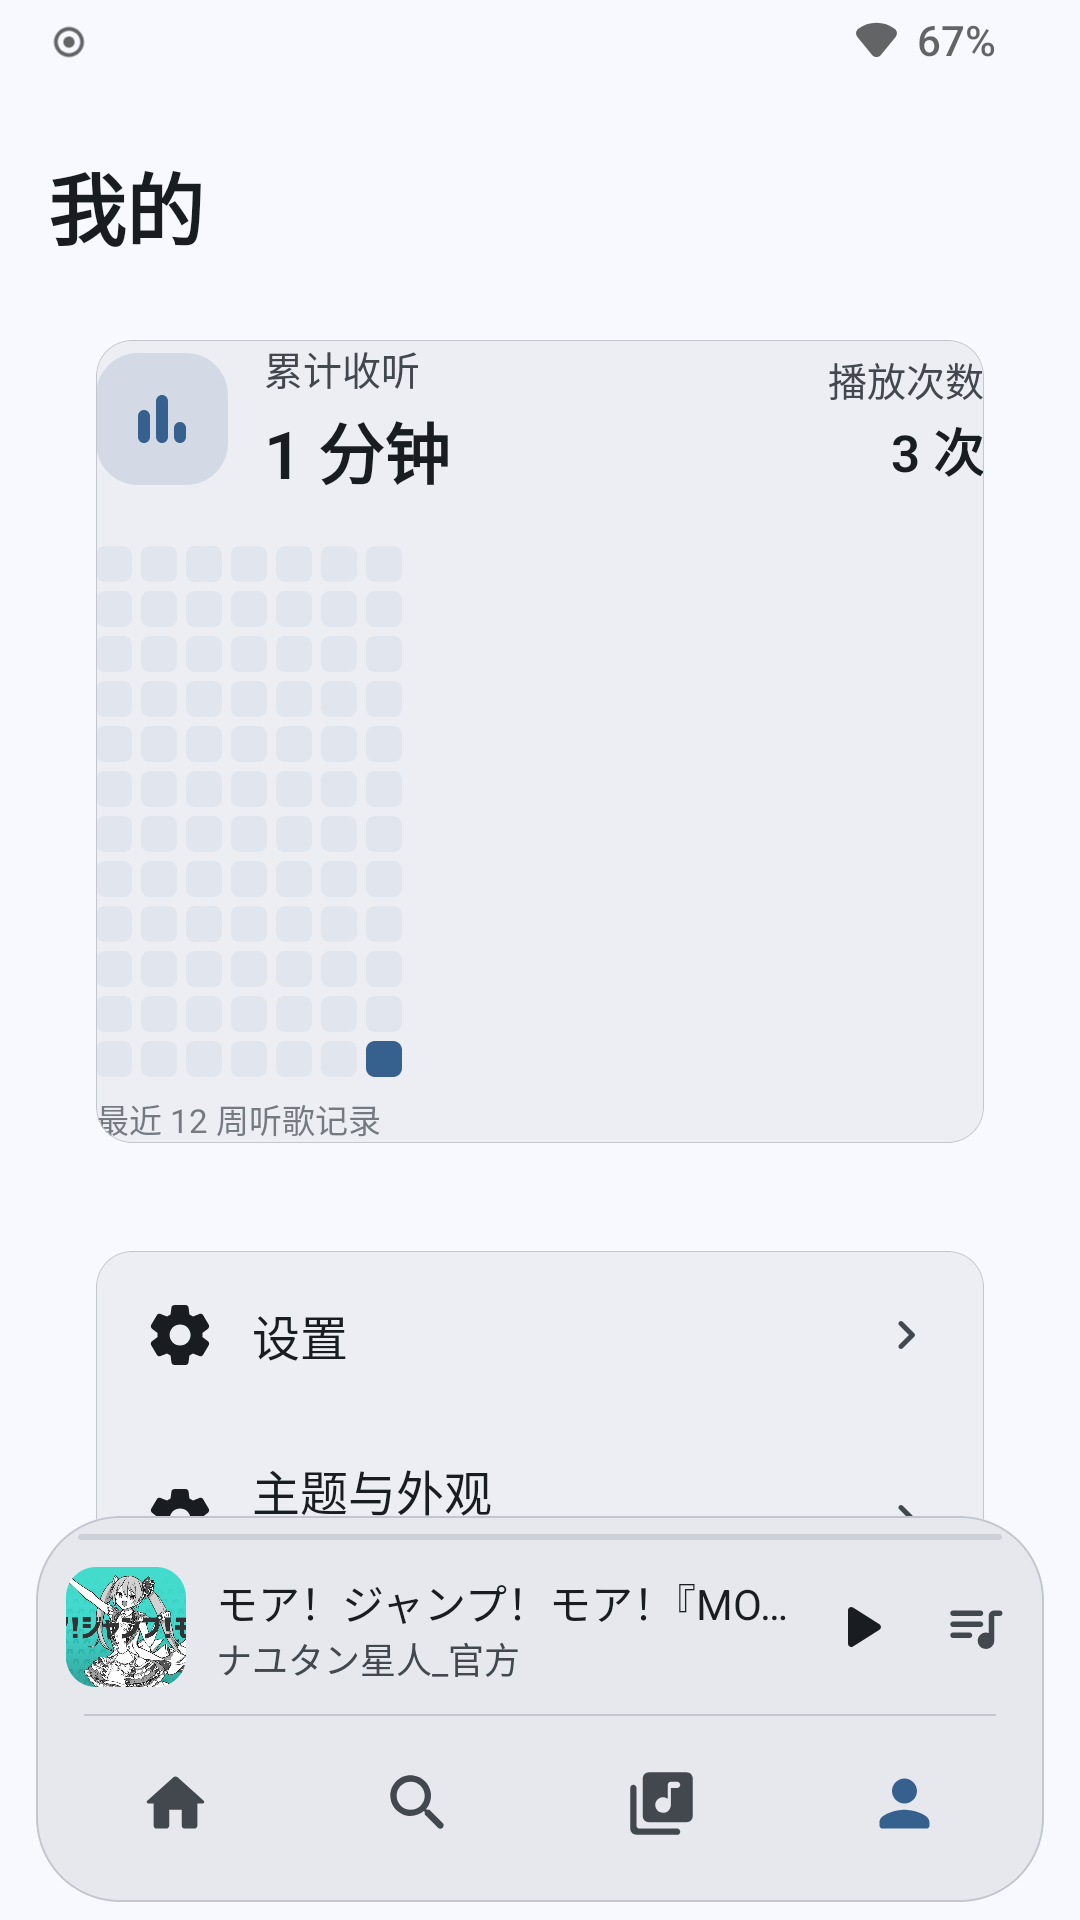
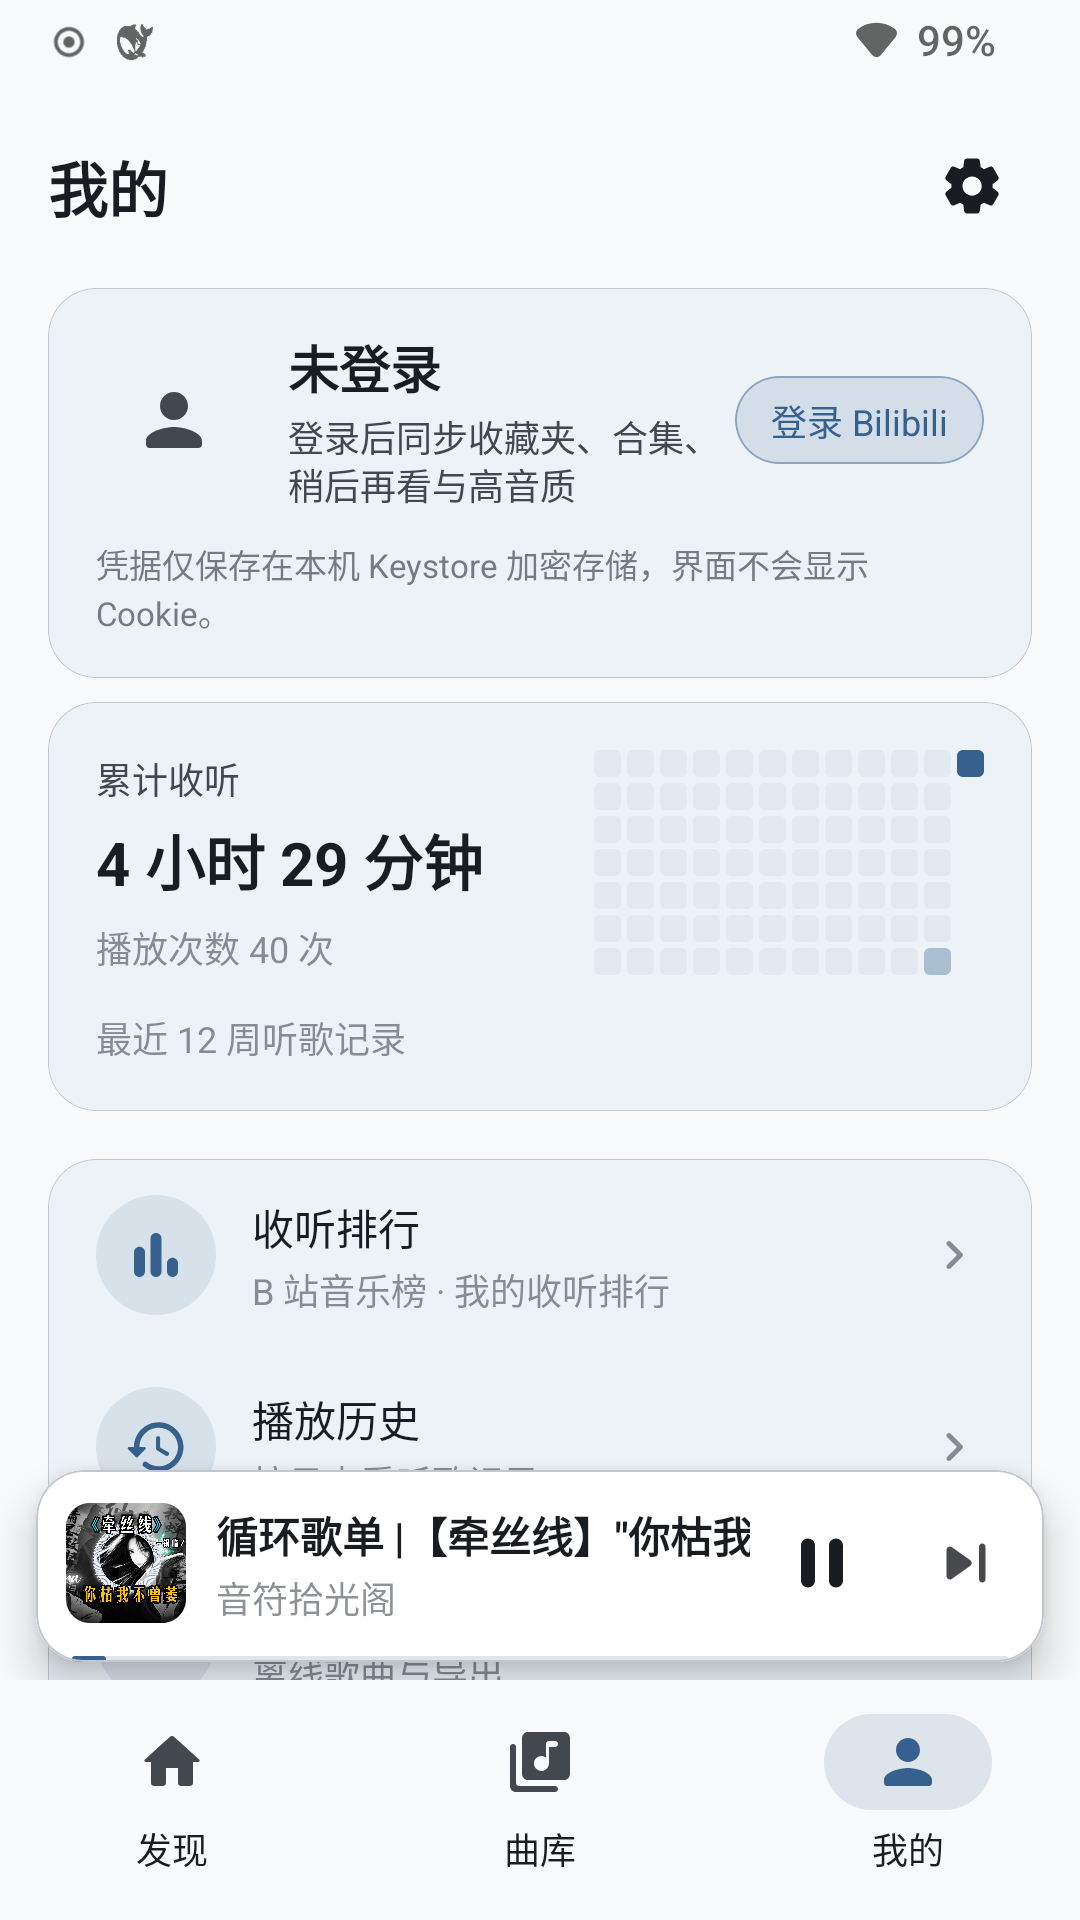
chore(release): v0.8.0 — versionCode 13、README v8、截图与验收包
- versionCode 12→13 / versionName 0.7.4→0.8.0
- README 新增 v8 更新说明：底部导航 / 悬浮迷你播放器 / 发现·曲库·我的·播放器重构
- README 截图改用版本库内 docs/screenshots 并更新发现/播放器/曲库/我的四张
- 提交本任务验收包与独立审查记录（.ai/ui-bottomnav/）

diff --git a/.ai/ui-bottomnav/ACCEPTANCE.md b/.ai/ui-bottomnav/ACCEPTANCE.md
@@ -1,0 +1,108 @@
+# 验收包 — BBPlayer 移动端 UI/UX 重构（底部导航 + 悬浮迷你播放器）
+
+**级别**：L2（跨 31 文件、信息架构变更、含产品取舍；见 SPEC 分级说明）
+**已执行阶段**：0 勘察 → 1 隔离分支 → 2 SPEC 冻结 → 3 PLAN → 4 实现（并行 5 写者）→ 5 自检（全量门禁 + 真机冒烟）→ 6 独立审查（2 位 fresh 审查者）→ 7 验收包
+**跳过阶段及理由**：8 合入（按工作流默认不 push / 不合入，等人工授权）；CI 未触发（未 push）；无 VCS 例外（git 仓库，localhost 分支）
+**状态**：**等待人工验收**（代码已本地提交、门禁绿、真机截图齐；尚未 push / 未合入）
+
+## 1. 一句话结果
+
+侧边抽屉导航已废弃，改为底部 3 Tab（发现/曲库/我的）+ 悬浮胶囊迷你播放器；发现页改 M3 SearchBar
+Header 与 16:9 视频卡；曲库页三胶囊改为 MoreVert + M3 ModalBottomSheet（含批量管理/二次确认）；
+我的页合并统计+12 周热力图仪表板并统一入口；播放器封面 82–85% 屏宽、标题跑马灯+常驻红心、
+底部手势安全区与主播放键层级按规范重排；视觉 token 统一（浅色 #F8F9FA / 卡片 #EDF2F7 / 16dp 圆角 /
+20sp Bold）。全量门禁 exit 0，真机（MI 6，360×640dp，Android 14）逐页截图验证。
+
+## 2. 交付物与复现
+
+| 项 | 值 |
+|---|---|
+| 分支 | `feat/ui-bottomnav-refresh`（main 未动） |
+| BASE | `c415b02` |
+| SPEC_BASE / SPEC_PATH | `7d5f18d` / `.ai/ui-bottomnav/SPEC.md`（实现期间 SPEC 未改动：`git diff 7d5f18d..HEAD -- .ai/ui-bottomnav/SPEC.md` 为空） |
+| 最终 HEAD | `47bbb5a`（11 个本地 commit） |
+| DIFF_CMD | `git diff c415b02..HEAD`（31 files，+1492 / −904） |
+| LOG_CMD | `git log --oneline c415b02..HEAD` |
+| ENFORCEMENT | `prompt-only`（无 pre-commit / 无 required check；本流程靠自觉 + 证据） |
+| CI | 未触发（未 push）；不能写成"CI 通过" |
+| 全量门禁 | `cd /root/bbplayer && ANDROID_USER_HOME=.gradle/android-user-home GRADLE_USER_HOME=.gradle/user-home ./gradlew --no-daemon :app:assembleDebug :app:testDebugUnitTest :data:testDebugUnitTest :playback:testDebugUnitTest :lyrics:testDebugUnitTest --rerun-tasks` → `BUILD SUCCESSFUL / 138 tasks executed / exit 0`（`evidence/final-gate.log`） |
+| 真机冒烟 | MI 6 `5c17d7b9`，安装最终 debug APK 启动无崩溃；证据 `evidence/01–12*.png` |
+
+## 3. 改动清单（按主题；完整 diff 见 DIFF_CMD）
+
+| 主题 | 文件 | 为什么 |
+|---|---|---|
+| 主题 token | `ui/theme/BbTheme.kt`、`ui/theme/DesignTokens.kt` | 浅色 #F8F9FA/#EDF2F7、卡片 16dp、20sp Bold、动态主色保留；尺寸/内容安全区单一事实源 |
+| 导航骨架 | `ui/AppRoot.kt`、新增 `components/BottomNavBar.kt`、新增 `components/MiniPlayer.kt`、删除 `components/NavDrawer.kt`、删除 `components/BottomPlayerBar.kt` | 去抽屉/汉堡，底部 3 Tab；迷你播放器悬浮胶囊 + 二级页底栏下滑隐藏/播放器下沉；播放页滑入转场 |
+| 页面标题 | `ui/components/Headers.kt` | 去汉堡入口，标题 20sp Bold |
+| 发现页 | `screens/home/HomeScreen.kt` | M3 SearchBar Header、删大标题/统计卡、视频卡 16:9 |
+| 曲库页 | `screens/library/LibraryScreen.kt` | MoreVert + ModalBottomSheet、批量管理/确认、无 FAB、标题统一「曲库」 |
+| 我的页 | `screens/profile/ProfileScreen.kt` | 仪表板卡（左指标右 12×7 热力图）、统一 ripple 入口、右上设置齿轮 |
+| 播放页 | `screens/player/PlayerScreen.kt`、`components/SeekLine.kt` | 封面 85%/暂停 82.4%、16dp 无描边、标题跑马灯+红心、UP主+音质、72dp 主键、底部手势安全区；SeekLine 支持紧凑热区 |
+| 设置 | `screens/settings/SettingsScreen.kt` | 删除已废弃「迷你播放器样式」项；二级页 padding |
+| 二级页防遮挡 | Login/Search/PlaylistDetail/Downloads/History/Leaderboard/Import/WatchLater/FavoriteFolder/CollectionDetail/Uploader/Comments | 底部 contentPadding 140dp，避免迷你播放器遮挡最后一项 |
+| 工程 | `.gitignore`、`.ai/ui-bottomnav/*` | 忽略 `.kotlin/`；recon/SPEC/PLAN/REVIEW/证据（`.ai/evidence` 系列默认不入库） |
+
+## 4. AC 对照与证据
+
+12 条 AC 逐条对照见 `evidence/AC-evidence.md`（命令 + 截图 + 源码位置）。摘要：
+
+- AC1–AC5（导航/迷你播放器/路由）✅ 截图 01–07、09–12
+- AC6（防遮挡）✅ 根页动态 padding（chrome + 系统 inset）、二级页 140dp、列表裁剪到状态栏下；截图 09/11/12
+- AC7（发现页）✅ 截图 01
+- AC8（曲库）✅ 截图 02/03/10/10b（批量管理 + 二次确认）
+- AC9（我的）✅ 截图 04
+- AC10（播放器）✅ 截图 05-player-paused/playing；像素测量 306dp=85.0%、296.7dp=82.4%
+- AC11（视觉 token）✅ 浅色 01/02/04、深色 08-dark-*、纯白 08-purewhite-*
+- AC12（门禁）✅ `final-gate.log` exit 0
+
+## 5. 独立审查结论
+
+- 审查者：2 位 fresh（1 个 spawn subagent、1 个独立 workflow agent），均未参与实现、只读。
+- 依据：`git show 7d5f18d:.ai/ui-bottomnav/SPEC.md` + `git diff 7d5f18d..HEAD -- app/src/main/java`。
+- 结果：无 P0；1×P1（根页底部安全区未计系统 inset）+ 5×P2（登录页缺底部 padding、发现页滚动压状态栏、
+  批量删除无确认、BottomSheet 动作竞态、未用 token/双份事实源）全部修复；另补齐 AC10/AC11 截图。
+- 审查者点名项：无断言弱化、无 skip/only/ignore、无测试/CI/lint 配置改动、无快照/lockfile/依赖变更、
+  SPEC/规则未改、无鉴权/网络/密钥改动。
+- 详情：`.ai/ui-bottomnav/REVIEW.md`。
+
+## 6. 风险与回滚
+
+- 回滚：`git checkout main`（本任务全部在分支上，main 未动）；或逐个 `git revert 47bbb5a..9f435bc`。
+- 未在真机验证：宽屏 ≥600dp 的 NavRail 分支（无平板，仅源码审查）；3 键导航设备（inset 由系统动态计算，
+  代码已加 inset；未实机回归）；纯白主题仅发现/我的页截图。
+- 已知取舍：`MiniPlayerStyle` 偏好废弃（设置项已删，枚举保留兼容数据）；批量管理为最小实现（多选+批量删除+确认）；
+  「识别」FAB 本就不存在，按"无纯色 FAB + 操作收敛顶栏"验收（SPEC 假设 1）。
+- 环境备注：沙箱禁止写 `/root/.gradle`、`/root/.android`，门禁使用工作区内 gitignored 的
+  `GRADLE_USER_HOME`/`ANDROID_USER_HOME`（不影响仓库产物）。
+
+## 7. 我替你做的判断与假设（可推翻）
+
+1. 需求「约 140dp」：根页取 chrome 150dp + 系统 inset（本机 156dp），二级页 140dp——为保证最后一项不被遮挡。
+2. 批量管理实现为歌单多选 + 批量删除（含二次确认），未做导入/下载等其它批量场景。
+3. 迷你播放器固定为悬浮胶囊（删除设置里的样式开关，枚举保留兼容）。
+4. 宽屏保留左侧 NavRail（自适应），不强制底部导航。
+5. 搜索页、详情页、设置页仅统一底部 padding，不重做信息架构；歌词/评论页未重排。
+6. 发现页 SearchBar 在纯白主题补 0.5dp 描边（否则与白底同色不可见），正常主题视觉不变。
+
+## 8. 需要你验收的 3 件事（≤10 分钟）
+
+1. 真机看主流程：底部 3 Tab 切换、迷你播放器（点击/上滑展开、左右滑切歌）、播放页三页横滑与返回。
+2. 打开「曲库 → 歌单 MoreVert」：确认弹层四项可用、批量管理多选+删除确认；再看「我的」仪表板排版密度。
+3. 抽查截图（`evidence/01-discover.png`、`05-player-playing.png`、`04-profile.png`、`10b-library-batch-confirm.png`、
+   `08-dark-discover.png`）是否符合你的视觉预期；不满意可指定页面继续调。
+
+## 9. 明确未做
+
+- 未 push、未开 PR、未合入、未发版（版本号仍 0.7.4，未改 versionCode）。
+- 未新增依赖、未改 `:data/:playback/:lyrics/:core`、未动鉴权/网络/密钥/schema。
+- 未新增自动化 Compose UI 测试（SPEC 非目标禁止新增依赖）；新增有状态逻辑由真机冒烟覆盖。
+- 未做宽屏真机、3 键导航真机、纯白主题全页面回归；未录像动效。
+
+## 10. 结论
+
+- [x] 保留检查点（分支 `feat/ui-bottomnav-refresh`，本地 commit，等待授权）
+- [ ] 授权 push / 开 PR
+- [ ] 修改后通过（请指出页面/细节）
+- [ ] 打回
+- [ ] 无法验收（请说明环境/证据缺口）

diff --git a/.ai/ui-bottomnav/REVIEW.md b/.ai/ui-bottomnav/REVIEW.md
@@ -1,0 +1,47 @@
+# REVIEW — 独立审查记录与处置
+
+## 审查独立性
+
+| 项 | 值 |
+|---|---|
+| 级别 | L2（SPEC 落盘 + 隔离分支 + fresh reviewer） |
+| 审查者 1 | fresh subagent `04c2cc88-7d44-4e0c-bd18-e4233b8c3453`（spawn，未参与实现） |
+| 审查者 2 | fresh workflow agent `ui-bottomnav-independent-review`（独立会话，未参与实现） |
+| 审查对象 | `git diff 7d5f18d..HEAD -- app/src/main/java`（审查时 HEAD `039b972`；最终修正在此之后） |
+| 审查依据 | `git show 7d5f18d:.ai/ui-bottomnav/SPEC.md`（冻结版）；SPEC 校验：`git diff 7d5f18d..HEAD -- .ai/ui-bottomnav/SPEC.md` 为空 |
+| 实现过程可见性 | 否（fresh）；审查者只读、未改文件、未 commit、未 adb |
+
+## Findings 与处置
+
+| # | 级别 | 位置 | 问题 | 处置 |
+|---|---|---|---|---|
+| 1 | P1 | `theme/DesignTokens.kt` + `AppRoot.kt` | 根页 contentPadding 156dp 未计入 `navigationBars` inset（底栏实际 chrome = 150 + inset），AOSP 手势 24dp / 三键 48dp 设备最后一项会被迷你播放器压住 | **已修**：新增 `bbRootContentBottomPadding()` = chrome 常量（80+64+6+6）+ `WindowInsets.navigationBars` bottom inset；Home/Library/Profile 三页改用；chrome 数值改由 `BottomNavHeight/MiniPlayerHeight/...` 推导 |
+| 2 | P2 | `screens/login/LoginScreen.kt` | 登录页（二级页）滚动内容无底部 padding，迷你播放器常驻会遮挡 Keystore 提示卡 | **已修**：底部加 `SecondaryContentBottomPadding`（与其余二级页一致） |
+| 3 | P2 | `screens/home/HomeScreen.kt` | LazyColumn 去掉 `statusBarsPadding` 后滚动内容绘制到透明状态栏下（证据 09 中「30 首」与状态栏重叠），与曲库/我的不一致 | **已修**：`statusBarsPadding` 恢复到 LazyColumn，header item 内的重复 inset 移除 |
+| 4 | P2 | `screens/library/LibraryScreen.kt` | 批量删除无确认，「全选 + 删除」两次点击即永久删除全部歌单 | **已修**：新增 `BatchDeleteConfirmDialog` 二次确认（说明不可撤销），确认后再批量删除 |
+| 5 | P2 | `screens/library/LibraryScreen.kt` | `dismissThen` 依赖 `hide().invokeOnCompletion`，弹层中途被移出组合时协程取消 → 动作静默丢失 | **已修**：点击后先 `onDismiss()` 清状态再执行动作；`acting` 防连点保留，动作不再依赖隐藏动画回调 |
+| 6 | P2 | `theme/DesignTokens.kt` | 多个 token 未被引用（BottomNavHeight/MiniPlayerHeight/CardShape/bbCardSurface/bbCaptionColor），20sp 双份事实源 | **已修**：删除未用 token/函数；`MiniPlayerHeight`、`RootContentBottomPadding` 由基础尺寸推导并实际参与计算 |
+| 7 | P2 | evidence | AC10 截图早于封面 85% 修正；缺纯白主题截图；部分截图早于最后两次提交 | **已修**：最终包重新安装后重拍：播放态/暂停态、发现/曲库/我的/二级页/滚到底/批量确认对话框/纯白主题 |
+
+审查者点名项核对：无断言/期望弱化；无 skip/only/ignore；无测试/CI/lint 配置改动；无快照/lockfile/依赖变更；SPEC 与规则未被改；无鉴权/网络/密钥改动。测试缺失判断：本次无新增 Compose UI 测试（SPEC 非目标禁止新增依赖），新增有状态逻辑（批量删除 ID 集合、sheet 动作）已在真机冒烟覆盖，不列为影响正确性的缺陷。
+
+## 复核结论
+
+- 两位审查者均未发现 P0；发现的 1×P1 + 5×P2（去重后）已全部修复或转为证据补齐。
+- 修复后重新执行全量门禁（`:app:assembleDebug` + app/data/playback/lyrics 单测 `--rerun-tasks`）与真机冒烟，见 `evidence/final-gate.log`、`evidence/AC-evidence.md`。
+
+## 第二轮独立审查（fresh workflow agent）追加
+
+第二位审查者（独立会话）复审最终方向后补充/确认：
+
+| # | 级别 | 位置 | 问题 | 处置 |
+|---|---|---|---|---|
+| 8 | P2 | `screens/login/LoginScreen.kt` | 登录页作为二级页没有底部安全内边距，迷你播放器常驻会遮挡最后的信息卡（AC6 漏项） | **已修**：内容末尾加 `SecondaryContentBottomPadding`。（首版误加在开头，真机截图发现后已移到末尾并重拍 12-login-secondary.png） |
+| 9 | P2 | `screens/home/HomeScreen.kt` | LazyColumn 去掉 `statusBarsPadding` 后滚动内容绘制到透明状态栏下；与曲库/我的不一致 | **已修**：`statusBarsPadding` 恢复到 LazyColumn，并追加 `clipToBounds()` 把滚动内容裁在状态栏安全区下方（曲库/我的同步加 `clipToBounds()`）；09-discover-bottom 重拍确认 |
+| 10 | P2 | `screens/library/LibraryScreen.kt` | 批量删除无二次确认，全选+删除两次点击即永久删全部歌单 | **已修**：`BatchDeleteConfirmDialog` 二次确认（10b 截图） |
+| 11 | P2 | `theme/DesignTokens.kt` | 未使用 token / 20sp 双份事实源；156/140 硬编码 | **已修**：删除未用 token；`MiniPlayerHeight`、`RootContentBottomPadding` 由基础尺寸推导，`bbRootContentBottomPadding()` 动态加系统 inset |
+| 12 | 证据 | evidence | AC10 截图早于封面 85% 修正、缺纯白截图、部分截图早于最后提交 | **已修**：最终 APK 重拍 01–12（含播放/暂停态、深色、纯白、登录页、批量确认、滚到底） |
+
+- 审查者点名的 AC 结论：AC1–AC5、AC7–AC12 成立；AC6 因上述两处缺陷一度不成立，修复后由 Lead 在真机 + 源码复核为成立。
+- 第二轮审查同时确认：无断言弱化、无 skip/only/ignore、无测试/CI/lint 配置改动、无 lockfile/依赖变更、SPEC 与规则未改、无鉴权/网络/密钥改动。
+- 修复后最终门禁（`--no-daemon --rerun-tasks`）exit 0，见 `evidence/final-gate.log`。

diff --git a/README.md b/README.md
@@ -10,6 +10,17 @@
 
 ## 功能
 
+### v8 新增（底部导航 / 悬浮迷你播放器 / 全应用 UI 重构）
+
+- **底部 3 Tab 导航**：废弃左侧抽屉与汉堡菜单，改为「发现 / 曲库 / 我的」底部导航栏（避让系统手势条）；进入二级页时底栏下滑隐藏，迷你播放器下沉贴底常驻
+- **悬浮胶囊迷你播放器**：悬浮在底部导航正上方（左右 12dp、16dp 圆角、64dp 高）；40dp 封面 + 单行跑马灯标题 + UP 主；右侧仅播放/暂停与下一首（48dp 热区）；底部内置 2dp 进度条；点按/上滑平滑展开全屏播放器，保留左右滑切歌
+- **发现页**：去掉「发现音乐」大标题与收听统计卡，顶部改为 Material 3 SearchBar（占位「搜索音乐 / BV号 / 链接」）；最近播放与收藏视频卡改为 16:9 封面、12dp 圆角、标题最多 2 行
+- **曲库页**：歌单行 [播放][重命名][删除] 三胶囊收敛为 MoreVert + M3 底部操作弹层（立即播放 / 重命名 / 批量管理 / 删除）；批量管理支持多选与二次确认删除；无悬浮 FAB，功能操作收敛顶部
+- **我的页**：累计收听时长、播放次数、12 周听歌热力图合并为一张仪表板卡片（左指标右紧凑点阵）；收听排行 / 播放历史 / 已下载 / 导入歌单统一为「圆形浅色图标底托 + Chevron」的 ripple 列表卡；设置入口移至右上角齿轮
+- **全屏播放器**：封面放大至屏宽的 82%–85%（16dp 圆角、高斯模糊背景衬托、无白边高光）；标题单行跑马灯 + 右侧常驻红心；副标题为 UP 主 + 音质标签；主播放键放大为 72dp + 半透明圆形底板；底部功能栏 `navigationBarsPadding` 避让系统手势条
+- **视觉规范**：Material You 动态取色；浅色背景 `#F8F9FA`、卡片表面 `#EDF2F7`、卡片圆角统一 16dp、字阶 20sp Bold / 14sp / 12sp（60% 灰）；深色与纯白主题同步回归
+- 全量门禁（app assemble + data/playback/lyrics 单测）通过；版本 0.8.0
+
 ### v7.4 新增（首页模块化 / 最近播放歌单 / 菜单精简）
 
 - **首页新增「最近播放的歌单」**：记录歌单最近一次播放时间，用 2×2 封面拼图 + 歌单名 + 「N 首 · 最近播放」展示；点击进入歌单
@@ -99,13 +110,13 @@
 
 ## 截图
 
-| 首页 | 播放器 | 歌词 |
+| 发现 | 播放器 | 歌词 |
 | --- | --- | --- |
-| ![home](.ai/evidence/shots/13-restore.png) | ![player](.ai/evidence/shots/15-add-to-playlist.png) | ![lyrics](.ai/evidence/shots/17-lyrics-offset.png) |
+| ![home](docs/screenshots/01-home.png) | ![player](docs/screenshots/02-player.png) | ![lyrics](docs/screenshots/03-lyrics.png) |
 
-| 音乐库 | 我的 | 设置 |
+| 曲库 | 我的 | 设置 |
 | --- | --- | --- |
-| ![library](.ai/evidence/shots/14-library-playlist.png) | ![profile](.ai/evidence/shots/07-profile.png) | ![settings](.ai/evidence/shots/08-settings.png) |
+| ![library](docs/screenshots/04-library.png) | ![profile](docs/screenshots/05-profile.png) | ![settings](docs/screenshots/14-settings-v2.png) |
 
 ## 构建 & 运行
 
